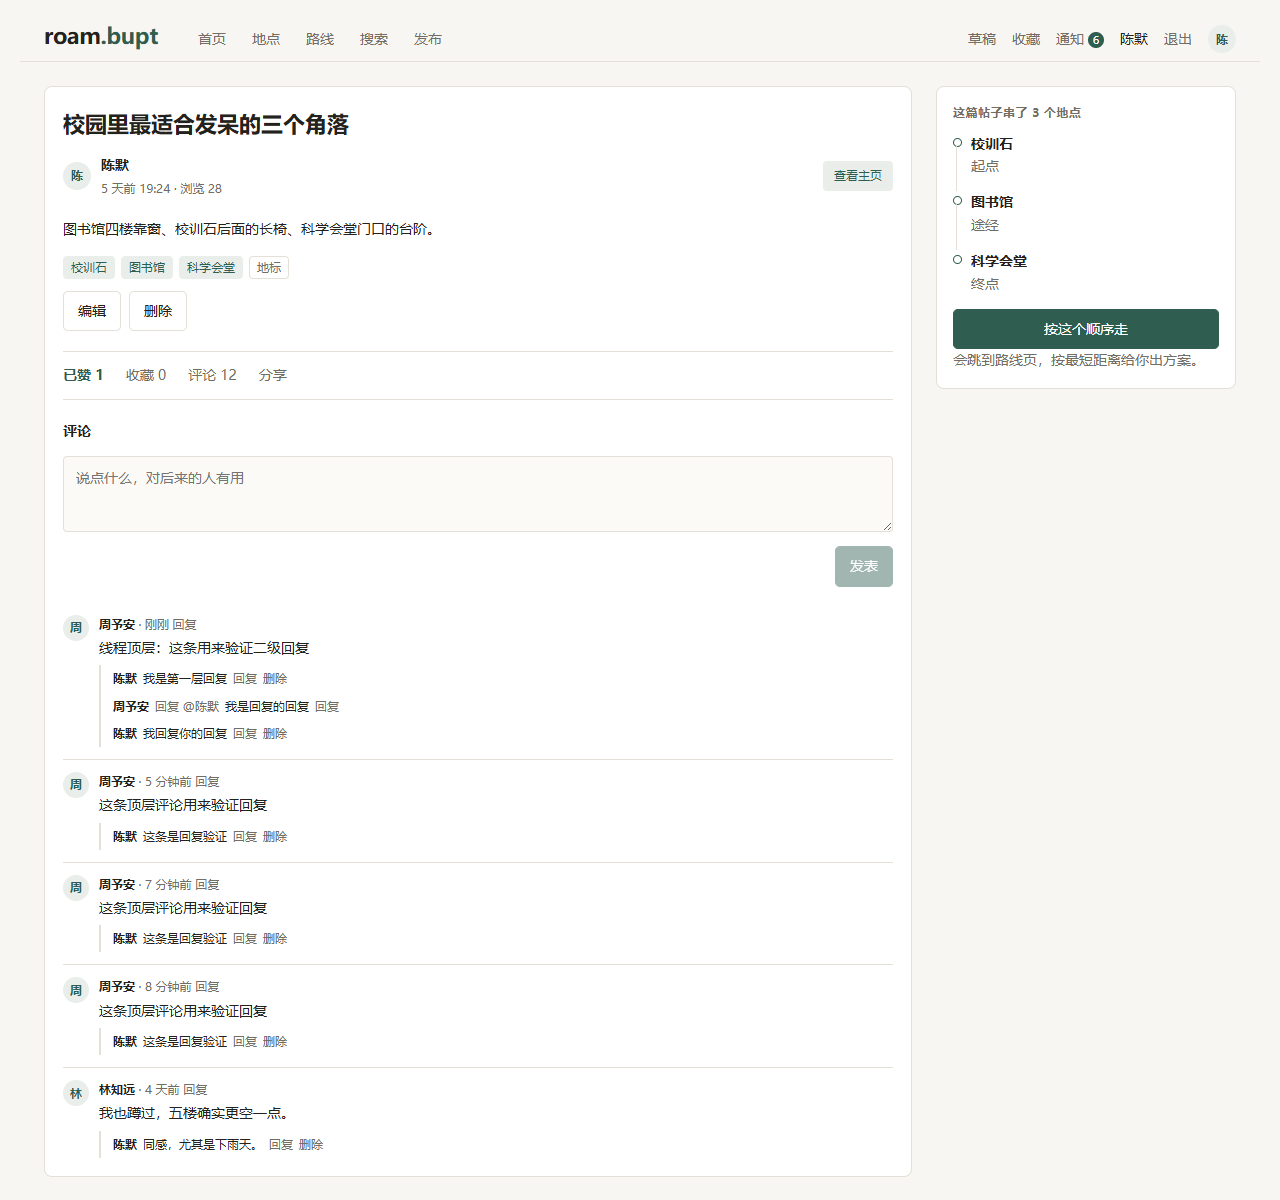
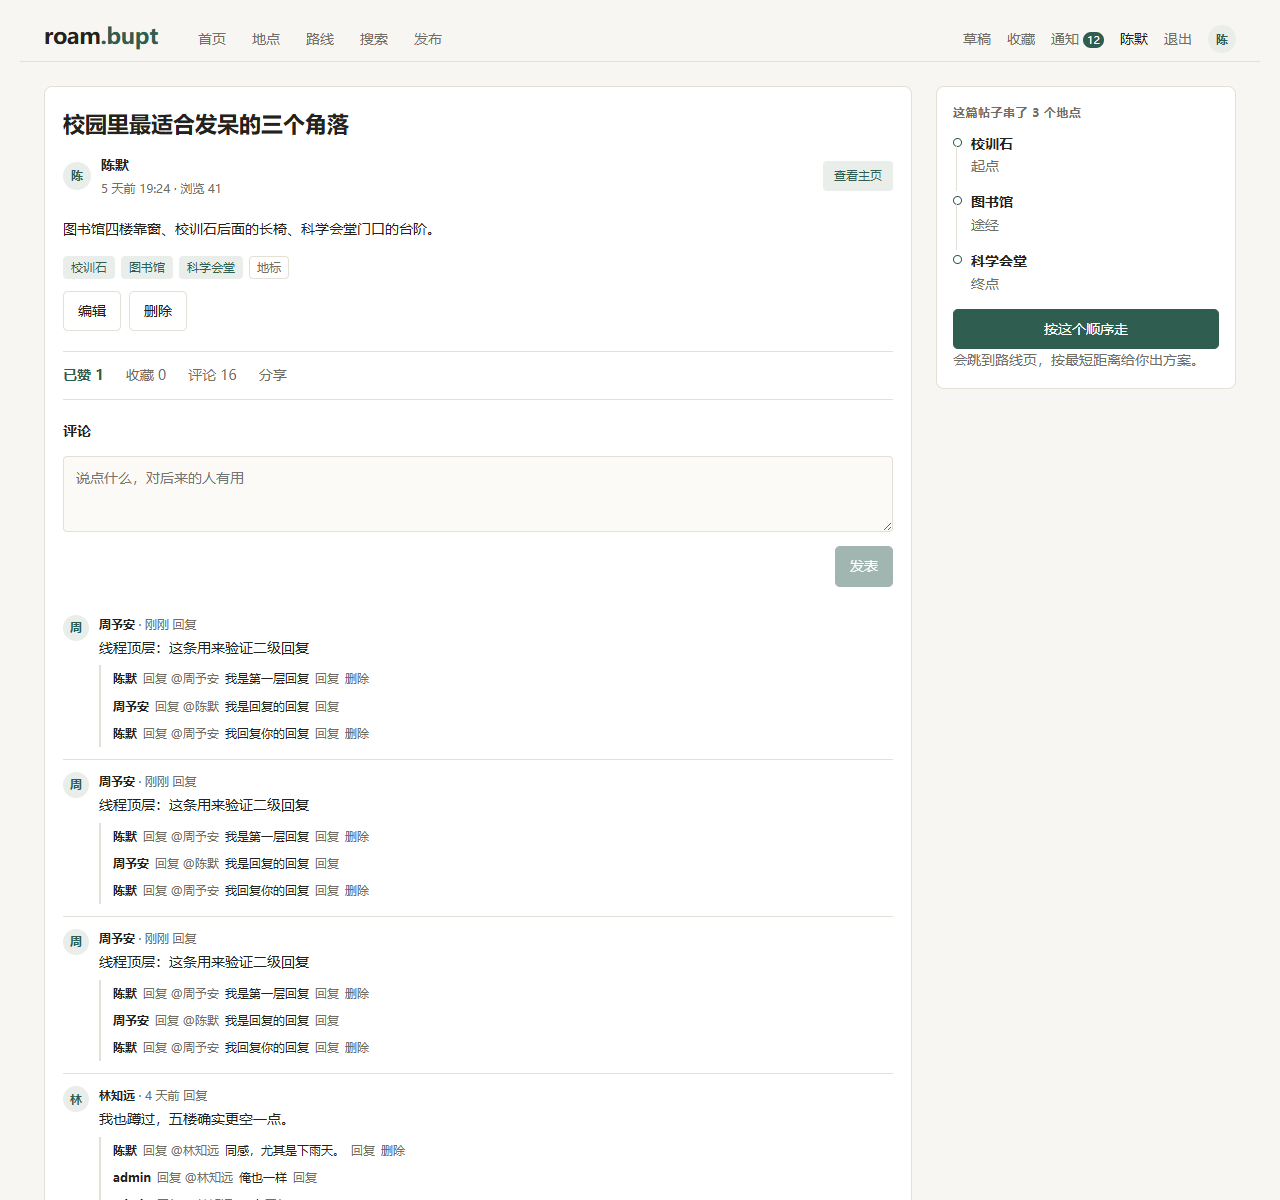
fix(comment): 回复的 parentId 指向被回复条目，所有回复都显示回复对象
- 之前把 parentId 填成线程顶层 id，回某条回复被记成回顶层，界面不显示 @对象
- 现在 parentId=被回复条目 id，后端仍按 topId 归并
- 直接回顶层评论也显示「回复 @楼主」，不再看起来像没标对象

Changed region(s): [[0.0625, 0.6475, 0.3125, 0.9867], [0.0938, 0.555, 0.2812, 0.6167], [0.75, 0.0308, 0.8438, 0.0617]]

diff --git a/frontend/src/views/PostView.vue b/frontend/src/views/PostView.vue
@@ -226,7 +226,8 @@ function threadIdOf(target) {
 }
 
 function replyTargetName(reply, top) {
-  if (!reply.parentId || reply.parentId === top.id) return ''
+  // 每条回复都标出回复对象：直接回顶层评论就是楼主，回某条回复就是那条的作者
+  if (!reply.parentId) return top.author.nickname
   if (reply.parentId === top.id) return top.author.nickname
   const siblings = repliesByTop.value[top.id] || []
   const parent = siblings.find((item) => item.id === reply.parentId)
@@ -244,7 +245,8 @@ async function submitReply(comment) {
   replyBusy.value = true
   commentError.value = ''
   try {
-    await createComment(post.value.id, content, threadIdOf(replyTo.value))
+    // parentId 指向被回复的那一条（顶层或某条回复），后端会自己归到 topId
+    await createComment(post.value.id, content, replyTo.value.id)
     cancelReply()
     await loadComments()
     await loadReplies()
